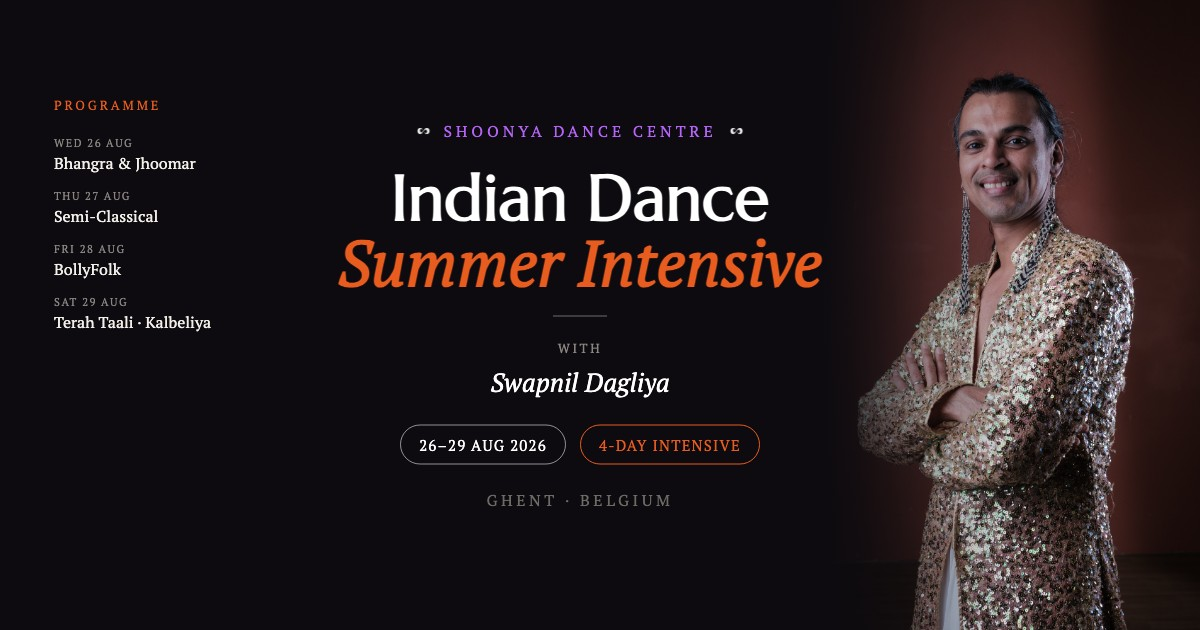
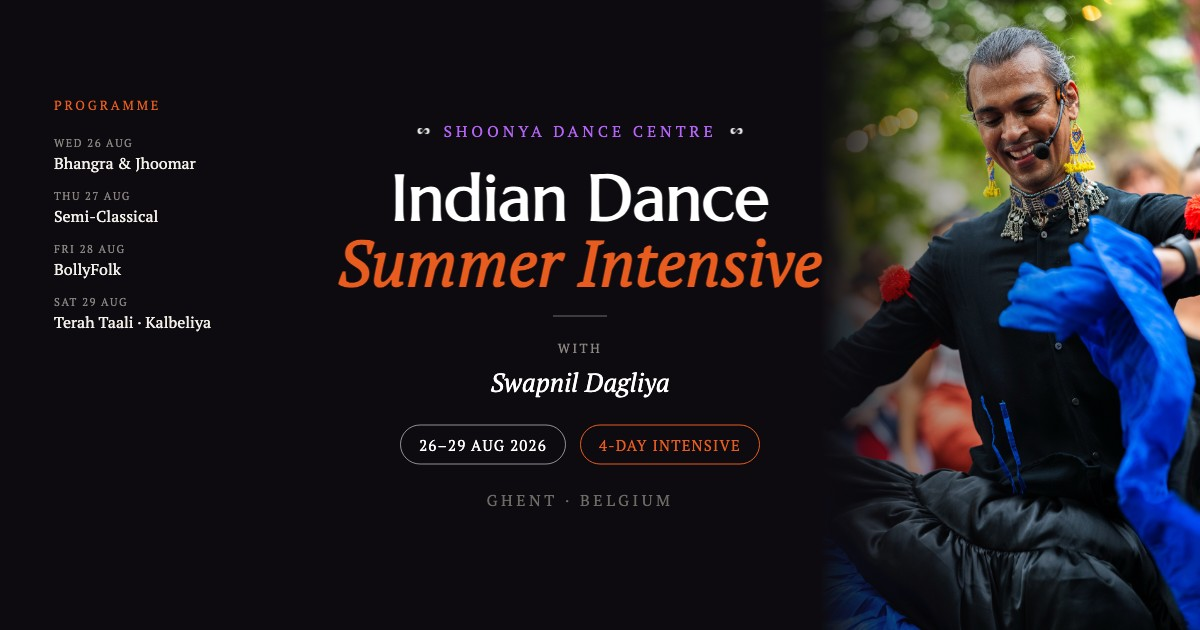
Indian Dance: drop the gold portrait, use dance-forward photos
- Social share card now uses the dynamic Kalbeliya action shot
- Teacher bio now uses the ghoomar-twirl studio photo (reframed
  object-position for full-body crop), EN + NL
- Gold portrait (portrait.jpg) no longer used on the page or share

Changed region(s): [[0.6783, 0.0, 1.0, 1.0]]

diff --git a/indian-dance-summer-intensive/nl/index.html b/indian-dance-summer-intensive/nl/index.html
@@ -872,7 +872,7 @@
     #semi-klassiek .session-photo img  { object-position: 50% 10%; }
     #bollyfolk .session-photo img      { object-position: 50% 8%; }
     #kalbeliya .session-photo img      { object-position: 50% 5%; }
-    .teacher-photo-wrap img            { object-position: 50% 8% !important; }
+    .teacher-photo-wrap img            { object-position: 50% 42% !important; }
   </style>
 </head>
 <body>
@@ -1207,8 +1207,8 @@
   <section class="section teacher" id="docent" aria-labelledby="teacher-heading">
     <div class="section-inner teacher-inner">
       <div class="teacher-photo-wrap">
-        <img src="../img/portrait.jpg"
-             alt="Swapnil Dagliya — Artistiek directeur van Shoonya Dance Centre"
+        <img src="../img/swapnil-twirl.jpg"
+             alt="Swapnil Dagliya draait een ghoomar-rok — Artistiek directeur van Shoonya Dance Centre"
              loading="lazy">
         <span class="photo-credit">© Kattoo Hillewaere</span>
       </div>

diff --git a/indian-dance-summer-intensive/index.html b/indian-dance-summer-intensive/index.html
@@ -1041,7 +1041,7 @@
     #bollyfolk .session-photo img      { object-position: 50% 8%; }
     /* terah-taali has object-position set inline */
     #kalbeliya .session-photo img      { object-position: 50% 5%; }
-    .teacher-photo-wrap img            { object-position: 50% 8% !important; }
+    .teacher-photo-wrap img            { object-position: 50% 42% !important; }
   </style>
 </head>
 <body>
@@ -1388,8 +1388,8 @@
   <section class="section teacher" id="teacher" aria-labelledby="teacher-heading">
     <div class="section-inner teacher-inner">
       <div class="teacher-photo-wrap">
-        <img src="img/portrait.jpg"
-             alt="Swapnil Dagliya — Artistic Director of Shoonya Dance Centre"
+        <img src="img/swapnil-twirl.jpg"
+             alt="Swapnil Dagliya twirling a ghoomar skirt — Artistic Director of Shoonya Dance Centre"
              loading="lazy">
         <span class="photo-credit">© Kattoo Hillewaere</span>
       </div>
